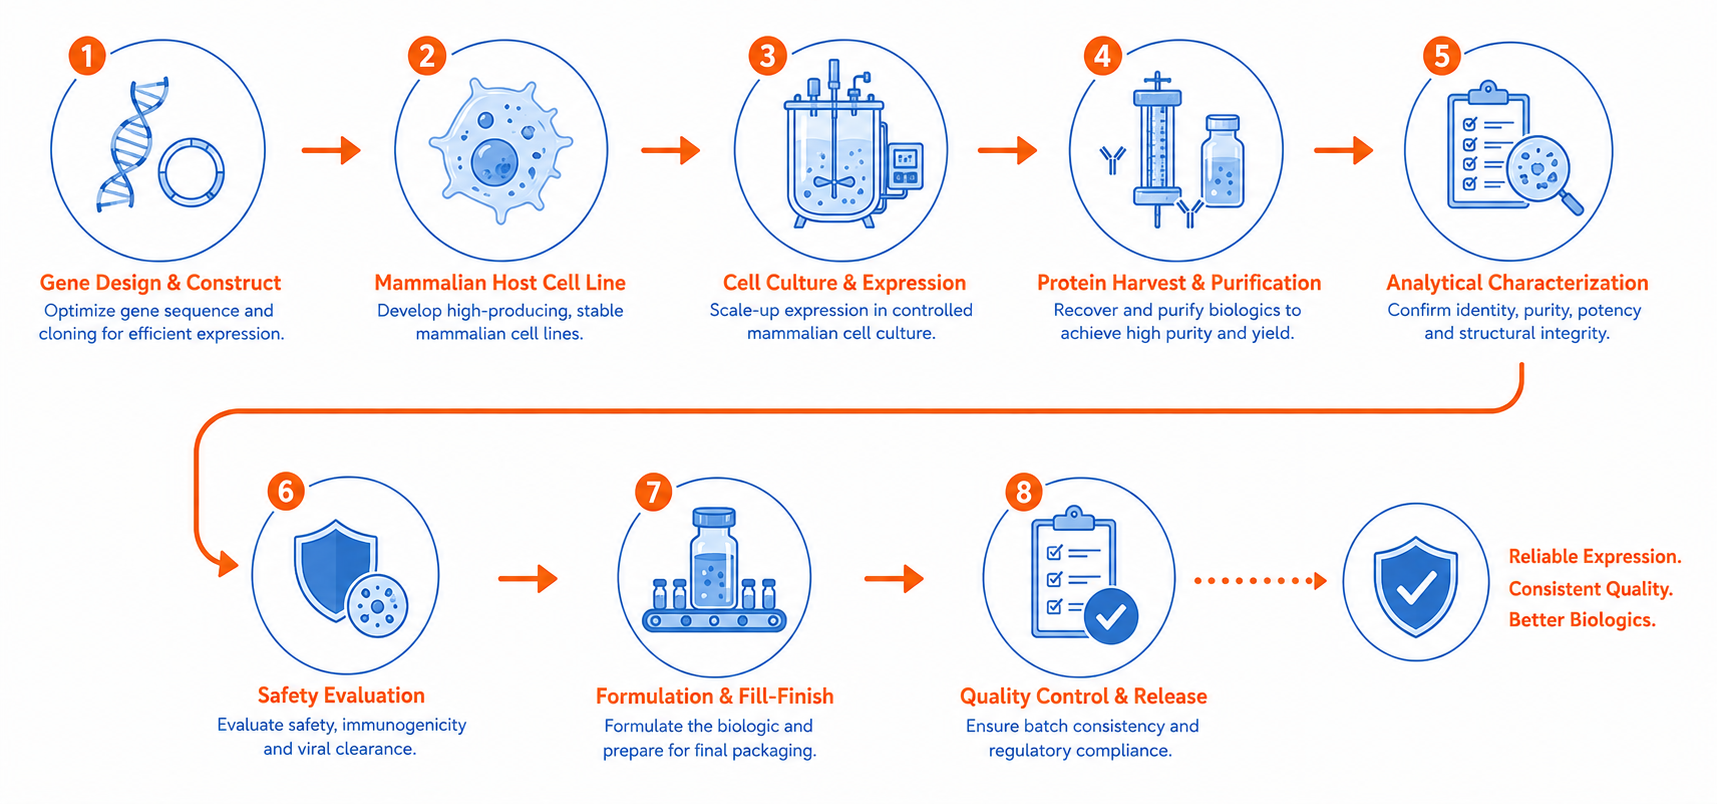
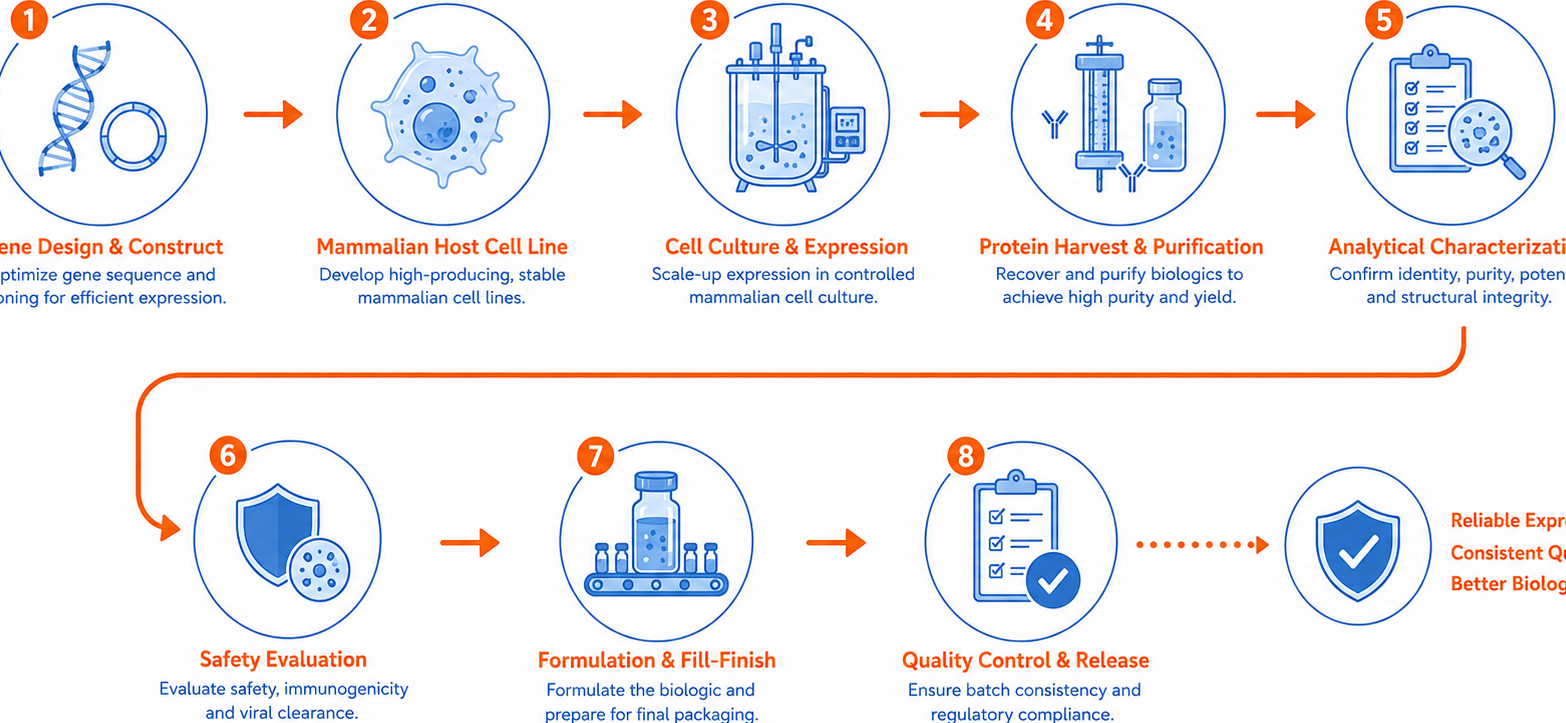
feat(quality): make roadmap image full to card and remove orange text badge above pillars

diff --git a/src/components/page-layouts/OverviewLayout.tsx b/src/components/page-layouts/OverviewLayout.tsx
@@ -1229,9 +1229,6 @@ export default function OverviewLayout({ page, content }: OverviewLayoutProps) {
             <div className="w-full max-w-[1700px] mx-auto">
               <Reveal>
                 <div className="text-center max-w-3xl mx-auto mb-12 md:mb-16">
-                  <span className="inline-block px-3 py-1 rounded-[10px] text-[10px] uppercase font-bold tracking-wider bg-brand-orange/10 text-brand-orange border border-brand-orange/20 mb-4">
-                    Comprehensive Quality Assurance
-                  </span>
                   <h2 className="text-3xl sm:text-4xl md:text-5xl font-semibold tracking-tight text-neutral-900 leading-[1.15] mb-4">
                     Quality &amp; Regulatory Pillars
                   </h2>
@@ -1335,14 +1332,14 @@ export default function OverviewLayout({ page, content }: OverviewLayoutProps) {
                   </div>
                 </Reveal>
 
-                {/* Right Column: Enlarged Roadmap Graphic Card */}
+                {/* Right Column: Full-Bleed Roadmap Graphic Card */}
                 <Reveal delay={0.1} className="lg:col-span-7 xl:col-span-8">
-                  <div className="relative w-full rounded-2xl border border-neutral-200/90 shadow-xl bg-white p-4 sm:p-6 md:p-8 lg:p-10 flex items-center justify-center overflow-hidden">
+                  <div className="relative w-full rounded-2xl border border-neutral-200/90 shadow-xl bg-white p-0 overflow-hidden flex items-center justify-center">
                     {/* eslint-disable-next-line @next/next/no-img-element */}
                     <img
                       src="/images/insights/regulatory_cmc_roadmap.png"
                       alt="Regulatory Affairs Support — CMC Biologics Roadmap"
-                      className="w-full h-auto max-h-[640px] xl:max-h-[700px] object-contain drop-shadow-sm transition-transform duration-500 hover:scale-[1.01]"
+                      className="w-full h-auto block drop-shadow-xs"
                     />
                   </div>
                 </Reveal>
